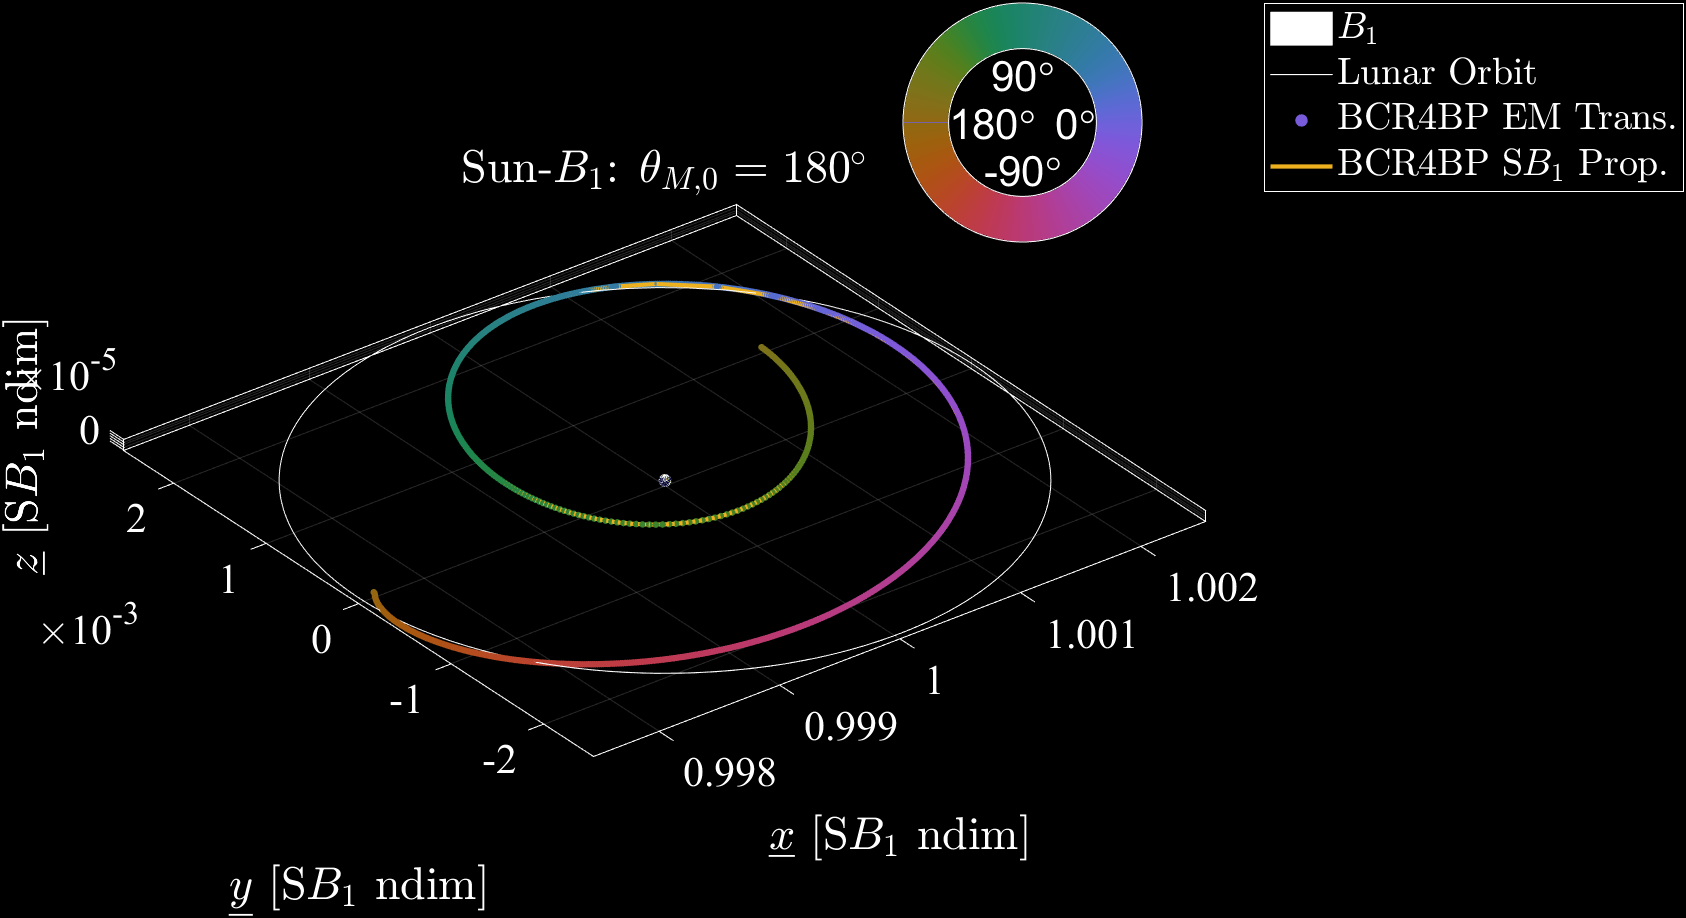
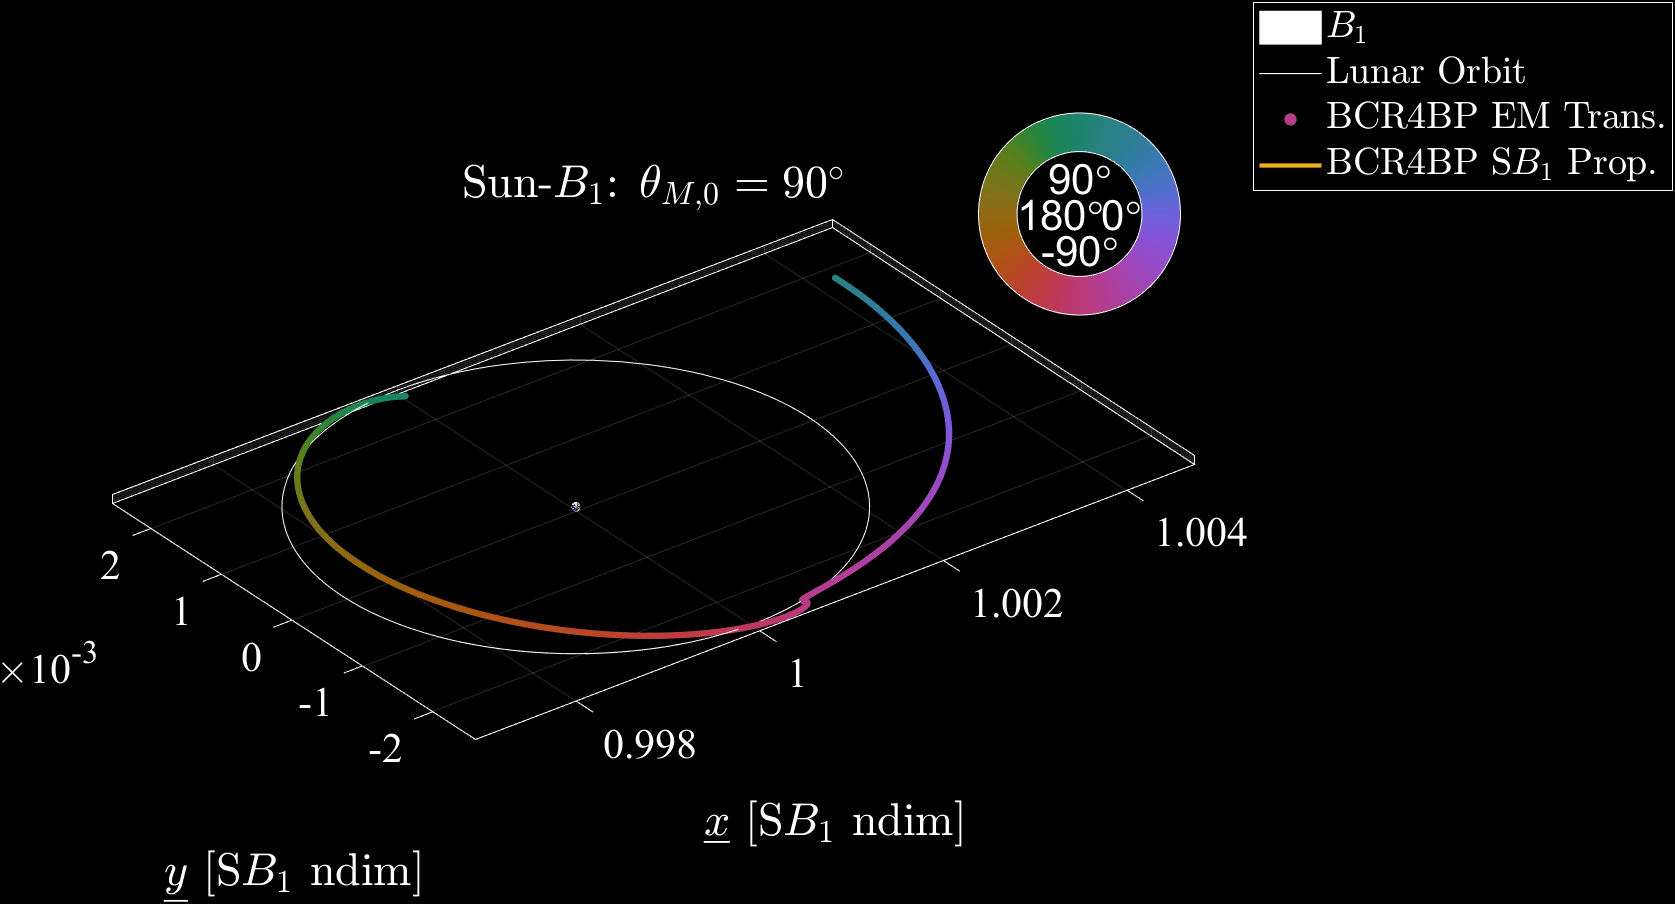
Updated BCR4BPDev script

diff --git a/BCR4BPDev.m b/BCR4BPDev.m
@@ -9,6 +9,8 @@ addpath('C:\Program Files\MATLAB\mice\lib\')
 cspice_furnsh('naif0012.tls')
 load("../PhDScripts/Output/BCR4BPDev.mat")
 initialEpoch = cspice_et2utc(trajBCR4BPEEclipJ2000.t(1), 'C', 0);
+MoonLoc = [MoonInitialState.x, MoonInitialState.y, MoonInitialState.z]./norm([MoonInitialState.x, MoonInitialState.y, MoonInitialState.z]);
+SunLoc = [SunInitialState.x, SunInitialState.y, SunInitialState.z]./norm([SunInitialState.x, SunInitialState.y, SunInitialState.z]);
 
 %% Body Data
 % Earth
@@ -137,6 +139,26 @@ hold off
 
 fig3 = figure("Position", [200 100 1200 750]);
 hold on
+B1 = plot3DBody("Earth", RE/lstarEM*5, [0, 0, 0]);
+set(B1, 'DisplayName', "$B_{1}$")
+Moon = plot3DBody("Moon", Rm/lstarEM*10, MoonLoc);
+set(Moon, 'DisplayName', "Moon")
+Sun = plot3DBody("Sun", RS/lstarSB1*10, 2*SunLoc);
+set(Sun, 'DisplayName', "Sun")
+axis equal
+grid on
+xlabel("$X$ [km]", 'Interpreter', 'latex')
+ylabel("$Y$ [km]", 'Interpreter', 'latex')
+zlabel("$Z$ [km]", 'Interpreter', 'latex')
+title("Ecliptic J2000 ($B_{1}$): "+initialEpoch, 'Interpreter', 'latex')
+legend('Location', 'northeastoutside', 'Interpreter', 'latex')
+set(gca, 'Color', 'k')
+view(2)
+hold off
+% exportgraphics(fig3, 'BCR4BPDev_3.png', 'BackgroundColor', 'k')
+
+fig4 = figure("Position", [200 100 1200 750]);
+hold on
 Earth = plot3DBody("Earth", RE/lstarEM, [0, 0, 0]);
 set(Earth, 'DisplayName', "Earth")
 fplot(@(t) sin(t), @(t) cos(t), 'w', 'DisplayName', "Lunar Orbit");
@@ -147,20 +169,20 @@ grid on
 xlabel("$X$ [EM ndim]", 'Interpreter', 'latex')
 ylabel("$Y$ [EM ndim]", 'Interpreter', 'latex')
 zlabel("$Z$ [EM ndim]", 'Interpreter', 'latex')
-title("Earth-Centered Ecliptic J2000: "+initialEpoch, 'Interpreter', 'latex')
+title("EJ2000 (Earth): "+initialEpoch(1:11), 'Interpreter', 'latex')
 legend('Location', 'northeastoutside', 'Interpreter', 'latex')
 phasemap;
 phasebar('Location', 'northeast', 'Size', 0.275)
 set(gca, 'Color', 'k')
-view(3)
-% view(2)
+% view(3)
+view(90, 0)
 hold off
-% exportgraphics(fig3, 'BCR4BPDev_3.png', 'BackgroundColor', 'k')
+% exportgraphics(fig4, 'BCR4BPDev_4.png', 'BackgroundColor', 'k')
 
-fig4 = figure("Position", [200 100 1200 750]);
+fig5 = figure("Position", [200 100 1200 750]);
 hold on
-Sun = plot3DBody("Sun", RS/lstarEM, [0, 0, 0]);
-set(Sun, 'DisplayName', "Sun")
+Sun = plot3DBody("Sun", RS/lstarEM*5, [0, 0, 0]);
+set(Sun, 'DisplayName', "Sun (x5)")
 fplot(@(t) (lstarSB1/lstarEM)*sin(t), @(t) (lstarSB1/lstarEM)*cos(t), 'w', 'DisplayName', "$B_{1}$ Orbit");
 scatter3(trajBCR4BPSEclipJ2000.x, trajBCR4BPSEclipJ2000.y, trajBCR4BPSEclipJ2000.z, 10*ones(length(trajBCR4BPSEclipJ2000.t), 1), angleColor(trajBCR4BPSEclipJ2000.theta4), 'filled', 'DisplayName', "BCR4BP EM Traj.")
 axis equal
@@ -168,13 +190,13 @@ grid on
 xlabel("$X$ [EM ndim]", 'Interpreter', 'latex')
 ylabel("$Y$ [EM ndim]", 'Interpreter', 'latex')
 zlabel("$Z$ [EM ndim]", 'Interpreter', 'latex')
-title("Sun-Centered Ecliptic J2000: "+initialEpoch, 'Interpreter', 'latex')
+title("EJ2000 (Sun): "+initialEpoch(1:11), 'Interpreter', 'latex')
 legend('Location', 'northeastoutside', 'Interpreter', 'latex')
 phasemap;
 phasebar('Location', 'northeast', 'Size', 0.275)
 set(gca, 'Color', 'k')
 view(3)
 hold off
-% exportgraphics(fig4, 'BCR4BPDev_4.png', 'BackgroundColor', 'k')
+% exportgraphics(fig5, 'BCR4BPDev_5.png', 'BackgroundColor', 'k')
 
 cspice_kclear
